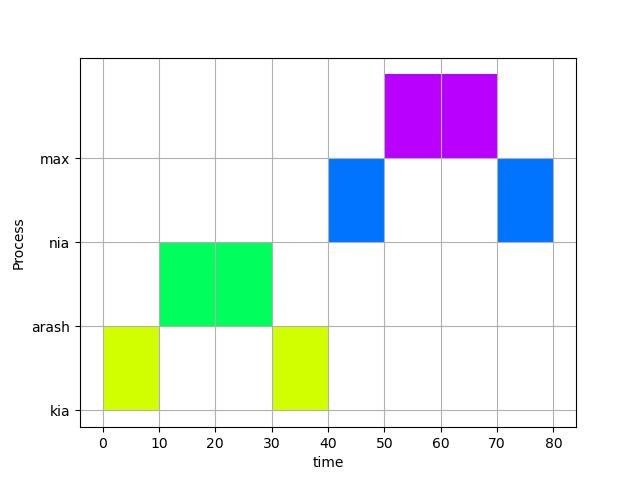
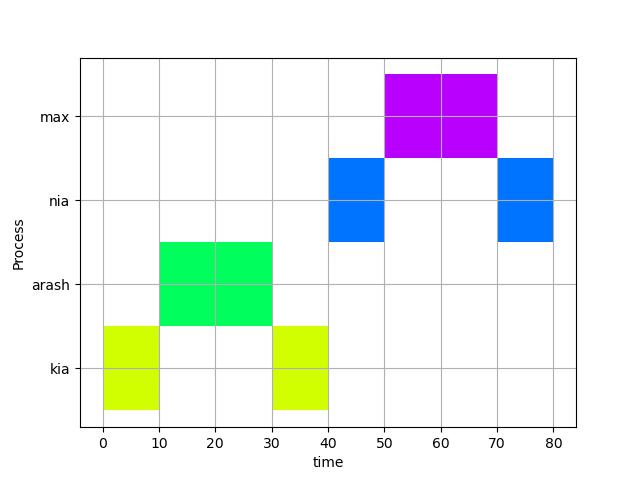
Gantt-Chart small improvement

diff --git a/Gantt-Chart/src/gantt.py b/Gantt-Chart/src/gantt.py
@@ -45,7 +45,7 @@ class GanttChart:
 
         #-------------------------------------
         # Setting ticks on y-axis
-        self.gnt.set_yticks([(i+1)*10 for i in range(n)])
+        self.gnt.set_yticks([(i+1)*10+5 for i in range(n)])
         # Labelling tickes of y-axis
         self.gnt.set_yticklabels([Id2Name[i] for i in range(n)])
         #
